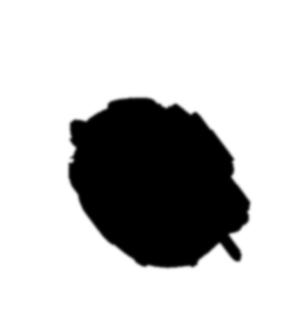
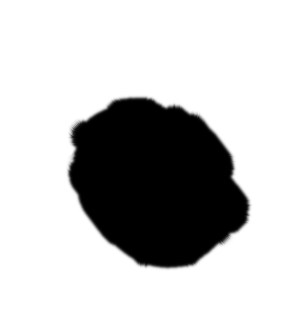
Smooth off the pipe stub in hospital L1's borrowed shadow
mesh_smooth opens a mesh mask with a disc of that radius; hospital level 1
uses 14 HD px to drop the thin part level 3's pipe cast.

diff --git a/tools/artwork/cast_shadows.py b/tools/artwork/cast_shadows.py
@@ -103,6 +103,7 @@ DEFAULTS = {
                            # level's); frames of other sizes align bottom-right, as buildings anchor
     "hollow": False,       # mesh: each height casts only its own throw, so high parts cast apart
     "mesh_scale": 1.0,     # mesh: the mask scaled about the building's base (a borrowed shape, resized)
+    "mesh_smooth": 0,      # mesh: radius (HD px) of an opening that removes thin parts poking out
     "cap": 180,            # longest throw, HD px: 45 native, under the 52 px flight height
     "blur": 2.0,           # softening of block shadows, HD px
     "body_alpha": 200,     # base pixels at least this opaque cast
@@ -403,6 +404,10 @@ def mesh_layer(spec, shape, root=ROOT, body=None):
         canvas[:body.shape[0], :body.shape[1]] = body
         reach = ndimage.binary_dilation(sweep(canvas, spec["cap"]), iterations=int(2 * spec["blur"]) + 1)
         out = np.where(reach, out, 0).astype(out.dtype)
+    if spec["mesh_smooth"]:
+        r = int(spec["mesh_smooth"])
+        yy, xx = np.mgrid[-r:r + 1, -r:r + 1]
+        out = ndimage.grey_opening(out, footprint=xx * xx + yy * yy <= r * r).astype(np.uint8)
     return out
 
 

diff --git a/docs/assets/lighting.md b/docs/assets/lighting.md
@@ -98,7 +98,9 @@ banners held up high cast apart from the base instead of standing on the
 ground; `mesh` names another frame whose mask this one borrows, aligned at the
 bottom-right corner as buildings are drawn and clipped to what this frame's
 silhouette can throw along the sun; `mesh_scale` scales the mask about the
-building's base (hospital level 1 borrows level 3's shape at 0.65). Buildings
+building's base, and `mesh_smooth` opens it with a disc of that radius to
+remove thin parts poking out (hospital level 1 borrows level 3's shape at
+0.65, smoothed by 14 HD px). Buildings
 whose meshes fail the gate keep a `block` spec at their reviewed length. barracks0b0's old shadow was painted
 opaque into its art; two masked FLUX.1 Fill [pro] passes (fal.ai) repainted it
 as sand before the mesh was made, recorded with their masks, prompts and hashes
